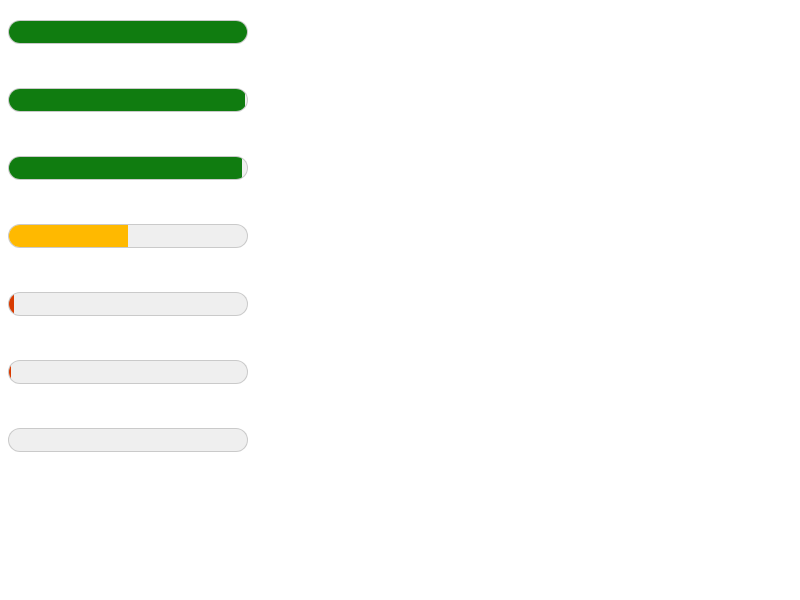
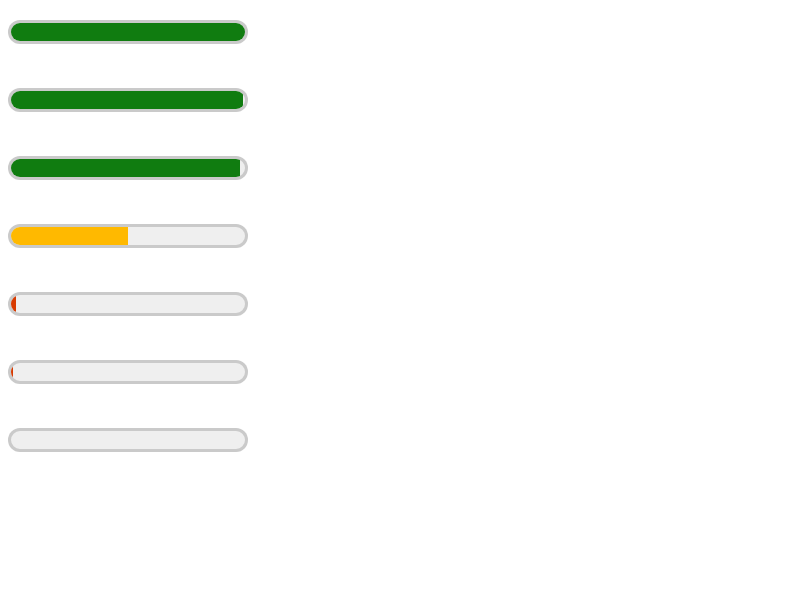
Apply zoom to thin/medium/think border/outline/column-rule.
These values map to a fixed number of CSS pixels, but zoom was not
applied as for other pixel lengths so that the output would not scale
with the zoom level.

Discovered running wpt/css tests with dpr=2.

TEST=external/wpt/css/CSS2/floats-clear/floats-114.xht

Bug: 1078776
Commit-Queue: Rune Lillesveen <futhark@chromium.org>
Cr-Commit-Position: refs/heads/master@{#766308}

diff --git a/renderer/core/css/resolver/style_builder_converter.h b/renderer/core/css/resolver/style_builder_converter.h
@@ -312,26 +312,34 @@ T StyleBuilderConverter::ConvertFlags(StyleResolverState& state,
 template <typename T>
 T StyleBuilderConverter::ConvertLineWidth(StyleResolverState& state,
                                           const CSSValue& value) {
+  double result = 0;
   if (auto* identifier_value = DynamicTo<CSSIdentifierValue>(value)) {
-    CSSValueID value_id = identifier_value->GetValueID();
-    if (value_id == CSSValueID::kThin)
-      return 1;
-    if (value_id == CSSValueID::kMedium)
-      return 3;
-    if (value_id == CSSValueID::kThick)
-      return 5;
-    NOTREACHED();
-    return 0;
+    switch (identifier_value->GetValueID()) {
+      case CSSValueID::kThin:
+        result = 1;
+        break;
+      case CSSValueID::kMedium:
+        result = 3;
+        break;
+      case CSSValueID::kThick:
+        result = 5;
+        break;
+      default:
+        NOTREACHED();
+        break;
+    }
+    result = state.CssToLengthConversionData().ZoomedComputedPixels(
+        result, CSSPrimitiveValue::UnitType::kPixels);
+  } else {
+    result = To<CSSPrimitiveValue>(value).ComputeLength<double>(
+        state.CssToLengthConversionData());
   }
-  const auto& primitive_value = To<CSSPrimitiveValue>(value);
-  // FIXME: We are moving to use the full page zoom implementation to handle
-  // high-dpi.  In that case specyfing a border-width of less than 1px would
-  // result in a border that is one device pixel thick.  With this change that
-  // would instead be rounded up to 2 device pixels.  Consider clamping it to
-  // device pixels or zoom adjusted CSS pixels instead of raw CSS pixels.
-  // Reference crbug.com/485650 and crbug.com/382483
-  double result =
-      primitive_value.ComputeLength<double>(state.CssToLengthConversionData());
+  // TODO(crbug.com/485650, crbug.com/382483): We are moving to use the full
+  // page zoom implementation to handle high-dpi.  In that case specyfing a
+  // border-width of less than 1px would result in a border that is one device
+  // pixel thick.  With this change that would instead be rounded up to 2
+  // device pixels.  Consider clamping it to device pixels or zoom adjusted CSS
+  // pixels instead of raw CSS pixels.
   double zoomed_result = state.StyleRef().EffectiveZoom() * result;
   if (zoomed_result > 0.0 && zoomed_result < 1.0)
     return 1.0;

diff --git a/renderer/core/style/computed_style_test.cc b/renderer/core/style/computed_style_test.cc
@@ -930,4 +930,50 @@ TEST(ComputedStyleTest, InitialAndInheritedAndNonInheritedVariableNames) {
   EXPECT_TRUE(style->GetVariableNames().Contains("--e"));
 }
 
+TEST(ComputedStyleTest, BorderWidthZoom) {
+  std::unique_ptr<DummyPageHolder> dummy_page_holder_ =
+      std::make_unique<DummyPageHolder>(IntSize(0, 0), nullptr);
+
+  const ComputedStyle* initial = &ComputedStyle::InitialStyle();
+
+  StyleResolverState state(dummy_page_holder_->GetDocument(),
+                           *dummy_page_holder_->GetDocument().documentElement(),
+                           initial, initial);
+
+  scoped_refptr<ComputedStyle> style = ComputedStyle::Create();
+  style->SetEffectiveZoom(2);
+  style->SetBorderLeftStyle(EBorderStyle::kSolid);
+  style->SetOutlineStyle(EBorderStyle::kSolid);
+  style->SetColumnRuleStyle(EBorderStyle::kSolid);
+  state.SetStyle(style);
+
+  const struct {
+    CSSIdentifierValue* css_value;
+    double expected_px;
+    STACK_ALLOCATED();
+  } tests[] = {
+      {CSSIdentifierValue::Create(CSSValueID::kThin), 1.0},
+      {CSSIdentifierValue::Create(CSSValueID::kMedium), 3.0},
+      {CSSIdentifierValue::Create(CSSValueID::kThick), 5.0},
+  };
+
+  for (const auto& test : tests) {
+    for (const auto* property :
+         {&GetCSSPropertyBorderLeftWidth(), &GetCSSPropertyOutlineWidth(),
+          &GetCSSPropertyColumnRuleWidth()}) {
+      const Longhand& longhand = To<Longhand>(*property);
+      longhand.ApplyValue(state, *test.css_value);
+      auto* computed_value = longhand.CSSValueFromComputedStyleInternal(
+          *style, style->SvgStyle(), nullptr /* layout_object */,
+          false /* allow_visited_style */);
+      AtomicString prop_name = longhand.GetCSSPropertyName().ToAtomicString();
+      ASSERT_TRUE(computed_value) << prop_name;
+      auto* numeric_value = DynamicTo<CSSNumericLiteralValue>(computed_value);
+      ASSERT_TRUE(numeric_value) << prop_name;
+      EXPECT_TRUE(numeric_value->IsPx()) << prop_name;
+      EXPECT_EQ(test.expected_px, numeric_value->DoubleValue()) << prop_name;
+    }
+  }
+}
+
 }  // namespace blink

diff --git a/renderer/core/css/resolver/style_builder_converter.cc b/renderer/core/css/resolver/style_builder_converter.cc
@@ -962,20 +962,29 @@ void StyleBuilderConverter::CreateImplicitNamedGridLinesFromGridArea(
 
 float StyleBuilderConverter::ConvertBorderWidth(StyleResolverState& state,
                                                 const CSSValue& value) {
+  double result = 0;
   if (auto* identifier_value = DynamicTo<CSSIdentifierValue>(value)) {
-    CSSValueID value_id = identifier_value->GetValueID();
-    if (value_id == CSSValueID::kThin)
-      return 1;
-    if (value_id == CSSValueID::kMedium)
-      return 3;
-    if (value_id == CSSValueID::kThick)
-      return 5;
-    NOTREACHED();
-    return 0;
+    switch (identifier_value->GetValueID()) {
+      case CSSValueID::kThin:
+        result = 1;
+        break;
+      case CSSValueID::kMedium:
+        result = 3;
+        break;
+      case CSSValueID::kThick:
+        result = 5;
+        break;
+      default:
+        NOTREACHED();
+        break;
+    }
+    result = state.CssToLengthConversionData().ZoomedComputedPixels(
+        result, CSSPrimitiveValue::UnitType::kPixels);
+  } else {
+    const auto& primitive_value = To<CSSPrimitiveValue>(value);
+    result =
+        primitive_value.ComputeLength<float>(state.CssToLengthConversionData());
   }
-  const auto& primitive_value = To<CSSPrimitiveValue>(value);
-  double result =
-      primitive_value.ComputeLength<float>(state.CssToLengthConversionData());
   double zoomed_result = state.StyleRef().EffectiveZoom() * result;
   if (zoomed_result > 0.0 && zoomed_result < 1.0)
     return 1.0;
